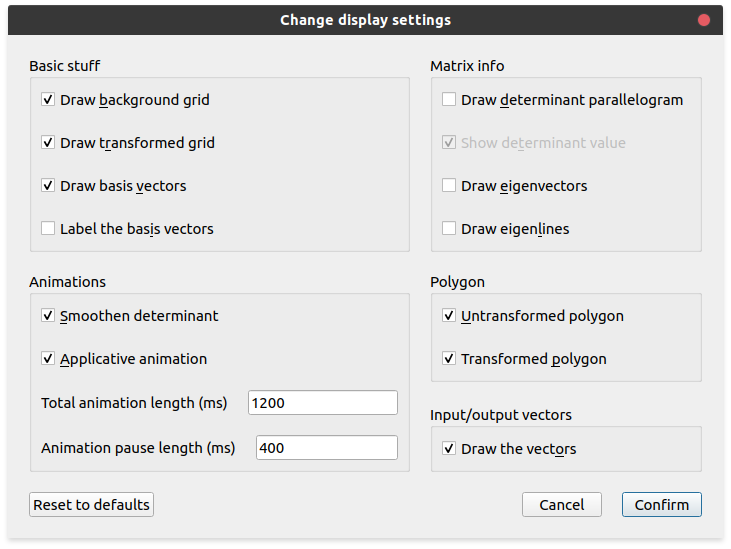
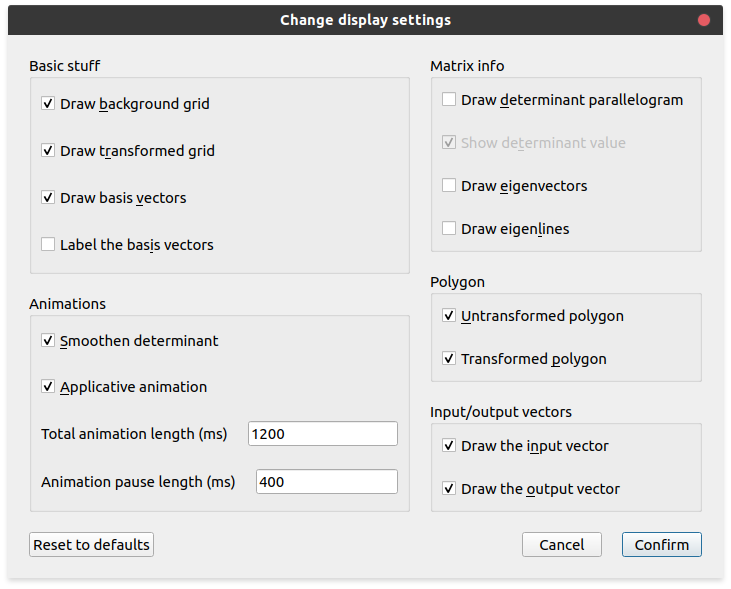
Fix tutorial image and update changelog

diff --git a/CHANGELOG.md b/CHANGELOG.md
@@ -7,6 +7,10 @@ and this project adheres to [Semantic Versioning](https://semver.org/spec/v2.0.0
 
 ## [Unreleased]
 
+### Added
+
+- Input and output vectors can now be shown or hidden independently
+
 ### Fixed
 
 - Reset the polygon when the session is reset
